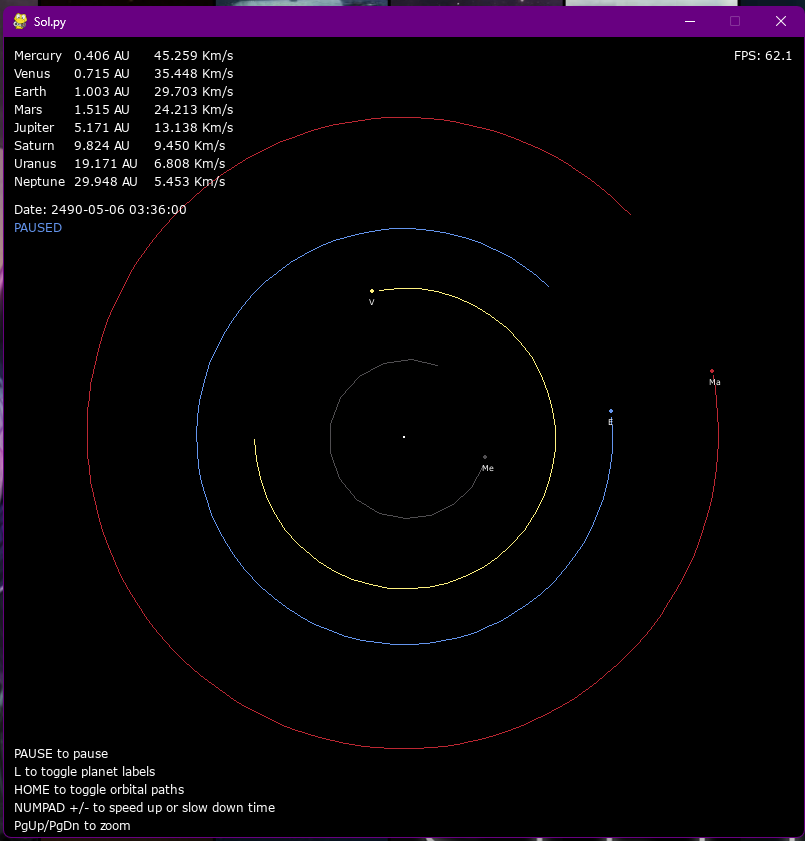
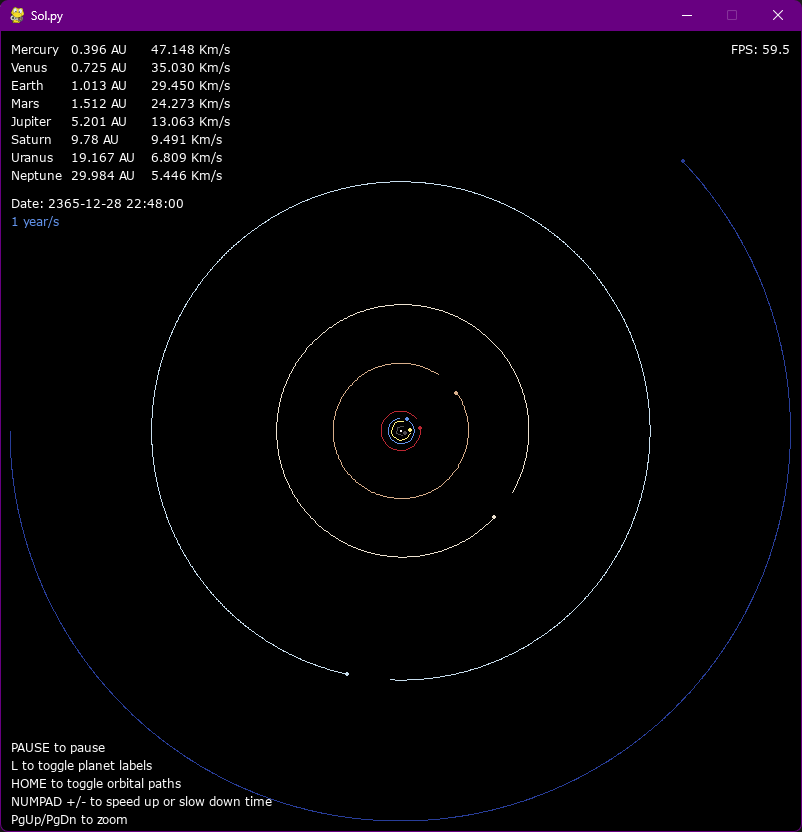
add hide UI button, update README

diff --git a/main.py b/main.py
@@ -31,6 +31,7 @@ timestep = 1440 # 1 day/sec (1440 seconds per frame @ 60fps)
 bodies = []
 elapsed_time = datetime(2266, 1, 1)
 multiplier = (timestep) / (1440)
+show_ui = True
 
 # Schedule an event which calculates game data every 50ms
 UPDATE = pygame.USEREVENT
@@ -61,10 +62,11 @@ class Planet:
         self.y_vel = 0
 
     def draw(self, win):
+        global show_ui
+
         # Draw a circle on screen to represent the planet
         x = self.x * scale + WIDTH / 2
         y = self.y * scale + HEIGHT / 2
-
         pygame.draw.circle(win, self.colour, (x, y), self.radius)
 
         # Render the orbital path
@@ -78,17 +80,18 @@ class Planet:
                 planet_label = LABEL_FONT.render(f'{self.label}', 1, WHITE)
                 win.blit(planet_label, (x - 3, y + 5))
 
-            # Render the planet's name
-            planet_text = FONT.render(f'{self.name}', 1, WHITE)
-            win.blit(planet_text, (10, ((bodies.index(self) - 1) * 18) + 10))
+            if show_ui:
+                # Render the planet's name
+                planet_text = FONT.render(f'{self.name}', 1, WHITE)
+                win.blit(planet_text, (10, ((bodies.index(self) - 1) * 18) + 10))
 
-            # Render the distance to the sun in AU
-            distance_text = FONT.render(f'{self.distance_in_au} AU', 1, WHITE)
-            win.blit(distance_text, (70, ((bodies.index(self) - 1) * 18) + 10))
+                # Render the distance to the sun in AU
+                distance_text = FONT.render(f'{self.distance_in_au} AU', 1, WHITE)
+                win.blit(distance_text, (70, ((bodies.index(self) - 1) * 18) + 10))
 
-            # Render the planet's absolute velocity (speed)
-            speed_text = FONT.render(f'{self.speed:.3f} Km/s', 1, WHITE)
-            win.blit(speed_text, (150, ((bodies.index(self) - 1) * 18) + 10))
+                # Render the planet's absolute velocity (speed)
+                speed_text = FONT.render(f'{self.speed:.3f} Km/s', 1, WHITE)
+                win.blit(speed_text, (150, ((bodies.index(self) - 1) * 18) + 10))
 
     # Sum the gravitational forces on a planet from all other bodies
     # And return the net force
@@ -168,9 +171,12 @@ def main():
         # Fill the window with an RGB colour
         WIN.fill(BLACK)
 
-        # Loop through each game event (keypresses etc.)
+        # Get global variables
         global timestep
         global scale
+        global show_ui
+
+        # Loop through each game event (keypresses etc.)
         for event in pygame.event.get():
             if event.type == pygame.QUIT:
                 run = False
@@ -245,6 +251,9 @@ def main():
                 if event.key == pygame.K_l:
                     for body in bodies:
                         body.show_label = not body.show_label
+                # Press H to toggle UI
+                if event.key == pygame.K_h:
+                    show_ui = not show_ui
                 # Zoom with PgUp/PgDown
                 if event.key == pygame.K_PAGEUP:
                     scale = scale * 2
@@ -259,41 +268,45 @@ def main():
 
             body.draw(WIN)
 
-        # Render the current time multiplier
         multiplier = (timestep) / (1440)
-        if multiplier == 365:
-            multiplier_format = '1 year/s'
-        elif multiplier >= 1:
-            multiplier_format = f'{multiplier:.0f} day/s'
-        else:
-            multiplier_format = f'{multiplier / (60/1440):.0f} hr/s'
+        if show_ui:
+            # Render the current time multiplier
+            if multiplier == 365:
+                multiplier_format = '1 year/s'
+            elif multiplier >= 1:
+                multiplier_format = f'{multiplier:.0f} day/s'
+            else:
+                multiplier_format = f'{multiplier / (60/1440):.0f} hr/s'
 
-        multiplier_text = FONT.render('PAUSED' if paused else multiplier_format, 1, BLUE)
-        WIN.blit(multiplier_text, (10, 38 + ((len(bodies) - 1) * 18)))
+            multiplier_text = FONT.render('PAUSED' if paused else multiplier_format, 1, BLUE)
+            WIN.blit(multiplier_text, (10, 38 + ((len(bodies) - 1) * 18)))
 
-        # Render the control tips
-        multiplier_tip = FONT.render('PgUp/PgDn to zoom', 1, WHITE)
-        WIN.blit(multiplier_tip, (10, 780))
+            # Render the control tips
+            multiplier_tip = FONT.render('PgUp/PgDn to zoom', 1, WHITE)
+            WIN.blit(multiplier_tip, (10, 780))
 
-        multiplier_tip = FONT.render('NUMPAD +/- to speed up or slow down time', 1, WHITE)
-        WIN.blit(multiplier_tip, (10, 762))
+            multiplier_tip = FONT.render('NUMPAD +/- to speed up or slow down time', 1, WHITE)
+            WIN.blit(multiplier_tip, (10, 762))
 
-        path_tip = FONT.render('HOME to toggle orbital paths', 1, WHITE)
-        WIN.blit(path_tip, (10, 744))
+            path_tip = FONT.render('HOME to toggle orbital paths', 1, WHITE)
+            WIN.blit(path_tip, (10, 744))
 
-        label_tip = FONT.render('L to toggle planet labels', 1, WHITE)
-        WIN.blit(label_tip, (10, 726))
+            label_tip = FONT.render('L to toggle planet labels', 1, WHITE)
+            WIN.blit(label_tip, (10, 726))
 
-        pause_tip = FONT.render('PAUSE to pause', 1, WHITE)
-        WIN.blit(pause_tip, (10, 708))
+            pause_tip = FONT.render('PAUSE to pause', 1, WHITE)
+            WIN.blit(pause_tip, (10, 708))
 
-        # Render the simulation datetime
-        date_text = FONT.render(f'Date: {elapsed_time}', 1, WHITE)
-        WIN.blit(date_text, (10, 20 + ((len(bodies) - 1) * 18)))
+            hide_ui_tip = FONT.render('H to hide the UI', 1, WHITE)
+            WIN.blit(hide_ui_tip, (10, 690))
 
-        # Render the frames per second
-        fps_text = FONT.render(f'FPS: {clock.get_fps():.1f}', 1, WHITE)
-        WIN.blit(fps_text, (730, 10))
+            # Render the simulation datetime
+            date_text = FONT.render(f'Date: {elapsed_time}', 1, WHITE)
+            WIN.blit(date_text, (10, 20 + ((len(bodies) - 1) * 18)))
+
+            # Render the frames per second
+            fps_text = FONT.render(f'FPS: {clock.get_fps():.1f}', 1, WHITE)
+            WIN.blit(fps_text, (730, 10))
 
         # Tell pygame to draw the next frame
         pygame.display.update()

diff --git a/README.md b/README.md
@@ -10,12 +10,11 @@ An example of a planetary physics simulation using pygame
 - PgUp/PgDn to zoom
 - PAUSE to pause the simulation
 
----
-
 <p float="left">
-  <img src="screenshots/img1.png" width="500" />
-  <img src="screenshots/img2.png" width="500" /> 
-  <img src="screenshots/img3.png" width="500" />
+  <img src="screenshots/img1.png" width="400" />
+  <img src="screenshots/img2.png" width="400" /> 
+  <img src="screenshots/img3.png" width="400" />
+  <img src="screenshots/img4.png" width="400" />
 </p>
 
 Based on this tutorial by Tech With Tim:
